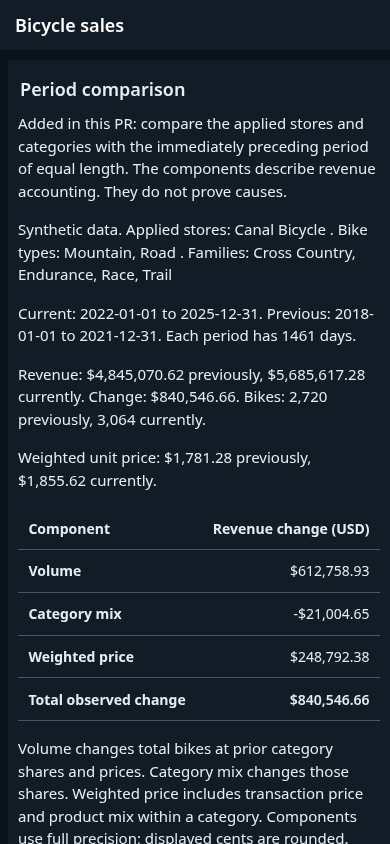
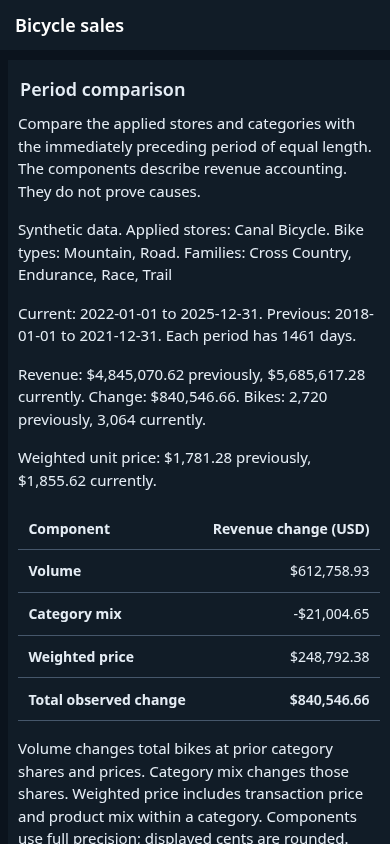
Preserve screenshots on browser checks and correct map labels

Changed region(s): [[0.0308, 0.1232, 0.9538, 0.2464], [0.5846, 0.2464, 0.9538, 0.3081], [0.4615, 0.2773, 0.5538, 0.3081]]

diff --git a/README.md b/README.md
@@ -57,11 +57,15 @@ The default synthetic run uses seed `20261106` and 26,118 order lines. Training 
 
 The baseline wins on both measures. The model and split were fixed before this run. No tuning followed these results. The future forecast uses a separate refit through December 2025. The default 12 month horizon covers January through December 2026.
 
-The native test suite passed 141 assertions for schema and calendar rules, real isolated SQLite joins and cleanup, Apply/Reset behavior, no leakage, literal baseline errors, independent prediction interval calculations and exact accounting components.
+The native R test suite passed 167 assertions. These include the original 141 assertions for data, calendars, real isolated SQLite joins and cleanup, Apply/Reset, no leakage, baseline errors, prediction intervals and accounting. Another 26 focused map assertions check polygon labels, zero sales colors and scalar DC hover values in built and serialized traces. Four Node helper cases check default capture preservation, explicit image updates and the real missing executable path.
 
 The real browser check passed Apply, invalid horizon refusal, Reset, empty store refusal, retained state through desktop/phone resize, plot containment and visible accounting reconciliation. It observed no external page asset request or JavaScript exception. The phone page width was 390 pixels at a 390 pixel viewport. Measured light body, dark body and dark table heading contrast all exceeded 4.5:1. These checks do not claim a complete accessibility audit.
 
-To repeat the optional browser check, start the synthetic app first. Use an installed Chrome and Node with global WebSocket support (tested with Chrome 156 and Node 26.8.2). Run `DASHBOARD_URL=http://127.0.0.1:7431/ DASHBOARD_EVIDENCE_DIR=.runtime/browser-run-1 node scripts/browser_smoke.mjs`. Choose a new evidence directory for each run. Use a short private TMPDIR if your system's temporary path exceeds Chrome's socket path limit. The script opens a fresh browser profile and closes its owned browser group. Stop the separate R app when finished.
+To repeat the optional browser check, start the synthetic app first. Use an installed Chrome and Node with global WebSocket support (tested with Chrome 156 and Node 26.8.2). Run `DASHBOARD_URL=http://127.0.0.1:7431/ DASHBOARD_EVIDENCE_DIR=.runtime/browser-run-1 node scripts/browser_smoke.mjs`. Choose a new evidence directory for each run. Captures go to that directory's `screenshots` folder. This default check preserves the tracked images.
+
+To refresh `docs/screenshots`, opt in explicitly: `DASHBOARD_UPDATE_SCREENSHOTS=1 DASHBOARD_URL=http://127.0.0.1:7431/ DASHBOARD_EVIDENCE_DIR=.runtime/browser-run-2 node scripts/browser_smoke.mjs`. This mode also keeps the run originals. Inspect the new images before committing them. File output and missing Chrome controls run with `node --test tests/browser_capture.test.mjs tests/browser_launch.test.mjs`.
+
+Use a short private TMPDIR if your system's temporary path exceeds Chrome's socket path limit. The script opens a fresh browser profile and closes its owned browser group. A missing executable reports its original launch error and removes its unused profile. Stop the separate R app when finished.
 
 ## Actual app views
 
@@ -81,7 +85,7 @@ Phone comparison in dark appearance, 390 by 844:
 
 ## My contributions
 
-Added in this PR:
+The work added to the course dashboard includes:
 
 - A deterministic synthetic SQLite generator, schema and coverage checks, data dictionary and connection cleanup.
 - One applied filter/settings state, useful empty and invalid states, defined ratio units and responsive light/dark styling.
@@ -89,7 +93,7 @@ Added in this PR:
 - An original period comparison that reconciles volume, category mix and weighted price with the exact revenue change. [Accounting definitions and zero cases](docs/revenue-comparison.md).
 - Behavioral tests for data, calendars, filters, validation, intervals and accounting.
 
-This project builds on a course dashboard. The exact course title, version and reuse terms have not been supplied. The original history, helper entry point and historical dependency records remain. No repository license is selected by this PR. The owner should confirm course reuse terms before choosing one.
+This project builds on a course dashboard. The exact course title, version and reuse terms have not been supplied. The original history, helper entry point and historical dependency records remain. No repository license has been selected. The owner should confirm course reuse terms before choosing one.
 
 ## Existing demo
 

diff --git a/docs/data-dictionary.md b/docs/data-dictionary.md
@@ -12,7 +12,7 @@ Default configuration: seed `20261106`, coverage January 1, 2016 through Decembe
 | `month_coverage` | `month`: unique first day of each month in the declared span. `is_complete`: whether all sales for that month are represented. |
 | `metadata` | One row with `schema_version`, `seed`, `coverage_start` and `coverage_end`. Version 1 is this synthetic schema. |
 
-The original product and customer join keys remain. Transaction price and coverage metadata are additions in this PR. SQLite joins order lines to stores and bikes and computes `quantity * unit.price` before `collect()`. Weighted prices and revenue use the transaction price. Reference product price is not substituted for it.
+The original product and customer join keys remain. The new data generator adds transaction price and coverage metadata. SQLite joins order lines to stores and bikes and computes `quantity * unit.price` before `collect()`. Weighted prices and revenue use the transaction price. Reference product price is not substituted for it.
 
 Schema checks reject missing columns or values, duplicate keys, broken foreign keys, invalid dates, dates outside coverage, noninteger quantities and invalid prices. The loader checks that the joins preserve the line count. A missing database fails before a connection can create an empty file. Connections close on success and error. The generator uses a temporary database, validates its tables and refuses to replace an existing output unless `--overwrite` is explicit.
 

diff --git a/docs/revenue-comparison.md b/docs/revenue-comparison.md
@@ -1,6 +1,6 @@
 # Original period comparison
 
-Added in this PR: compare selected stores and categories in the applied inclusive date range with the immediately preceding equal number of days. Both periods must fit within declared complete data coverage. The comparison reports revenue, bikes and weighted unit prices. It does not compare unequal calendar durations or silently treat unknown dates as zero.
+Compare selected stores and categories in the applied inclusive date range with the immediately preceding equal number of days. Both periods must fit within declared complete data coverage. The comparison reports revenue, bikes and weighted unit prices. It does not compare unequal calendar durations or silently treat unknown dates as zero.
 
 For each category (bike type and family), let `q` be bikes, `p` be revenue divided by bikes, `Q` be all selected bikes and `s = q / Q`. Subscript 0 is previous and 1 is current. Revenue is `Q * sum(s * p)`.
 
